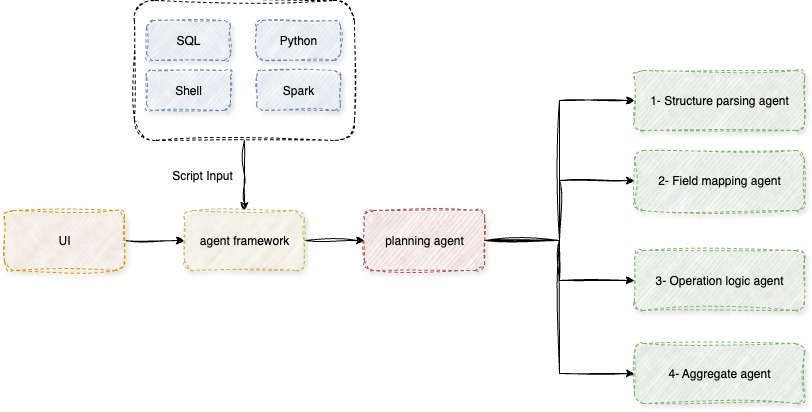
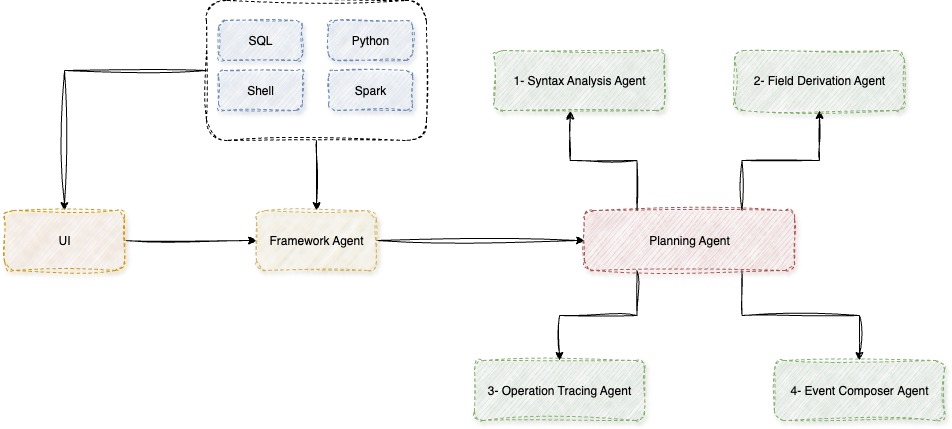
agents architecture changes

Changed region(s): [[0.0, 0.0, 1.0, 0.9903], [0.6773, 0.2913, 0.7081, 0.3204]]

diff --git a/README.md b/README.md
@@ -1,5 +1,5 @@
-# lineagent
-Agentic approach for data lineage parsing across various data processing script types
+# LineAgent
+Lineagent is an agentic framework for data lineage extraction across various data processing script types and export the results in OpenLineage format.
 
 
 # architecture
@@ -23,31 +23,31 @@ $$
 G=h([\{(A_1, T_1), (A_2, T_2), (A_3, T_3), (A_4, T_4)\}],P)
 $$
 
-## structure parsing agent
+## Syntax Analysis Agent
 
-Structure parsing agent, analyzes the syntactic structure of the raw script to identify subqueries and nested structures and decompose the script into multiple subscripts.
-
-$$
-\{sp1,⋯,sp𝑛\}:=h([A_1,T_1],P)
-$$
-
-## field mapping agent
-The field mapping agent processes each subscript from structure parsing agent to derive field-level mapping relationships and processing logic. 
+Syntax Analysis agent, analyzes the syntactic structure of the raw script to identify subqueries and nested structures and decompose the script into multiple subscripts.
 
 $$
-\{fm1,⋯,fm𝑛\}:=h([A_2,T_2],\{sp1,⋯,sp𝑛\})
+\{sa1,⋯,san\}:=h([A_1,T_1],P)
 $$
 
-## operation logic agent
-The operation logic expert analyzes the complex conditions within each subscript identified in structured parsing agent including filter conditions, join conditions, grouping conditions, and sorting conditions.
+## Field Derivation Agent
+The Field Derivation agent processes each subscript from syntax analysis agent to derive field-level mapping relationships and processing logic. 
 
 $$
-\{ol1,⋯,ol𝑛\}:=h([A_3,T_3],\{sp1,⋯,sp𝑛\})
+\{fd1,⋯,fdn\}:=h([A_2,T_2],\{sa1,⋯,san\})
 $$
 
-## aggregate agent
-the aggregate engine consolidates the results from the structured parsing agent, the field mapping agent and the operation logic agent to generate the final lineage result.
+## Operation Tracing Agent
+The Operation Tracing agent analyzes the complex conditions within each subscript identified in syntax analysis agent including filter conditions, join conditions, grouping conditions, and sorting conditions.
 
 $$
-\{A\}:=h([A_4,T_4],\{sp1,⋯,sp𝑛\},\{fm1,⋯,fm𝑛\},\{ol1,⋯,ol𝑛\})
+\{ot1,⋯,otn\}:=h([A_3,T_3],\{sa1,⋯,san\})
+$$
+
+## Event Composer Agent
+The Event Composer agent consolidates the results from the syntax analysis agent, the field derivation agent and the operation tracing agent to generate the final lineage result.
+
+$$
+\{A\}:=h([A_4,T_4],\{sa1,⋯,san\},\{fd1,⋯,fdn\},\{ot1,⋯,otn\})
 $$
